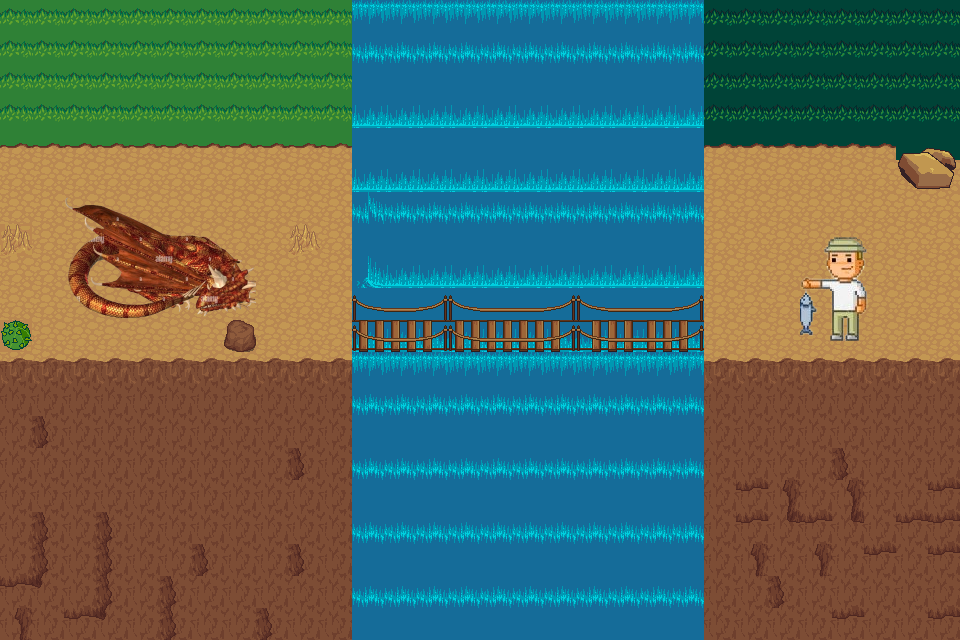
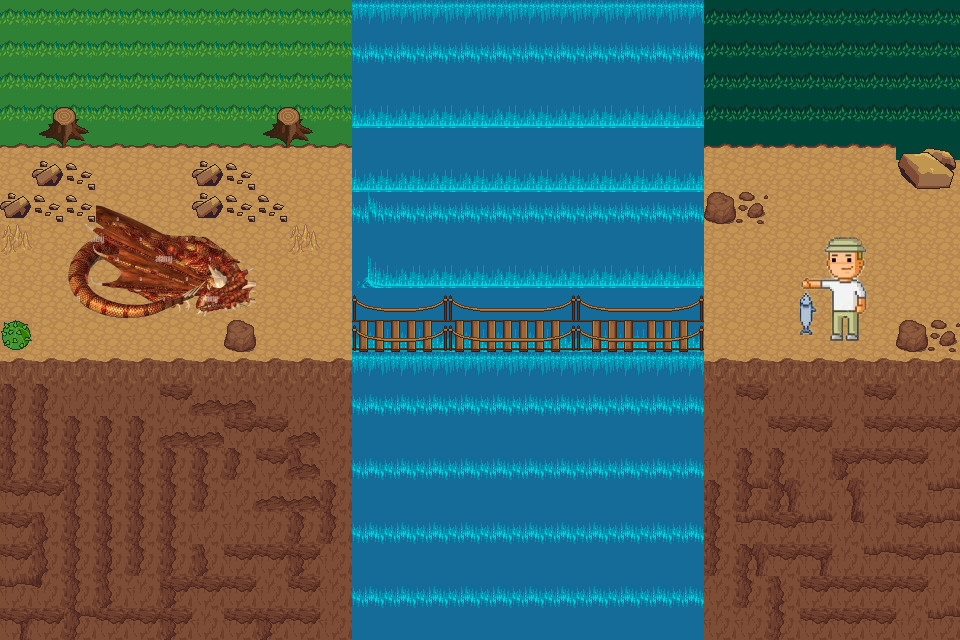
Zone village presque terminé (manque de changer le retour au village depuis le dragon ) + zone Labyrinthe bien avancé

diff --git a/src/jeu/Village.java b/src/jeu/Village.java
@@ -1,16 +1,18 @@
 package jeu;
 
+import java.awt.event.ActionEvent;
+import java.awt.event.ActionListener;
 import java.util.ArrayList;
 import java.util.List;
 
-import javax.swing.JOptionPane;
+import javax.swing.*;
 
 public class Village extends Zone {
-
+	private boolean dragontuée = false;
     public Village(String description) {
         super(description);
         commandes = new ArrayList<String>();
-        
+
        
     }
 
@@ -32,8 +34,10 @@ public class Village extends Zone {
 	@Override
 	public List<String> getCommandesSpecifiques() {
 		commandes.add("PARLER AU VILLAGEOIS");
-		commandes.add("BOIRE AU PUIT");
 		commandes.add("PARLER AU CHEF DU VILLAGE");
+		sorties.add("NORD-N");
+		sorties.add("OUEST-O");
+		sorties.add("EST-E");
 		return commandes;
 	}
 
@@ -43,6 +47,7 @@ public class Village extends Zone {
 		
 		 switch (commande) {
          case "PARLER AU CHEF DU VILLAGE":
+			if (!dragontuée){
              // Afficher l'image et le message à la console
         	 if(commandes.contains("PARLER AU VILLAGEOIS")) {
         		 Main.jeu.afficher("Vous devez d'abord parler au villageois");
@@ -55,10 +60,17 @@ public class Village extends Zone {
         		 		+ "Je te donne pour cela un arc et 1 flèche très puissante qui viendront à bout du dragon mais attention tu n'auras pas le droit de le rater.\n"
         		 		+ "Maintenant va et puisse la chance etre avec toi.");
         		 commandes.add("TUER LE DRAGON");
-        	 }
-             
+				 commandes.remove("PARLER AU CHEF DU VILLAGE");
+        	 }}
+			else{
+				Main.jeu.getGUI().afficheImage("village2.png");
+				Main.jeu.afficher("Merci pêcheur!");
+				commandes.remove("PARLER AU CHEF DU VILLAGE");
+			}
+
              break;
          case "PARLER AU VILLAGEOIS":
+
         	    Main.jeu.getGUI().afficheImage("village3.png");
         	    Main.jeu.afficher("Bonjour pêcheur, que nous vaut ta visite dans notre village \n "
         	                      + "Tu t'es échoué dans notre île avec ton âne et tu voudrais parler à notre chef? \n"
@@ -71,23 +83,60 @@ public class Village extends Zone {
         	        Main.jeu.afficher("Mauvaise réponse");
         	    }
         	    break;
-         /*case "VERS LA FORET":
-         	Main.jeu.getGUI().afficheImage("foret.png");
-         	
-         	sorties.remove("VERS LA FORET");
-         	
-         	break;*/
-         default:
+			 case "TUER LE DRAGON":
+				 lancerMiniJeuPourTuerLeDragon();
+				 commandes.remove("TUER LE DRAGON");
+				 commandes.add("PARLER AU CHEF DU VILLAGE");
+				 break;
+
+			 default:
          	 Main.jeu.afficher("Commande inconnue");
              break;
-         
+
      }
-		 
-		
+
+
 	}
-	
+
 	private String lireReponseGUI() {
 	    return JOptionPane.showInputDialog("Quelle est la capitale de Djibouti?");
 	}
+	private String lireReponseGUI1(){
+		return JOptionPane.showInputDialog("Quel chiffre se cachait dans la zone?");
+	}
+	private void lancerMiniJeuPourTuerLeDragon() {
+		// Afficher l'image du dragon
+		Main.jeu.getGUI().afficheImage("monstre.png");
+		Main.jeu.getGUI().stopperSaisieUtilisateur();
+
+
+		// Afficher le chiffre "3" dans la zone
+		Main.jeu.getGUI().afficher("Trouvez le chiffre caché. Regardez attentivement la zone pendant 15 secondes...\n");
+
+		// Démarrer un Timer pour effectuer une action après 10 secondes
+		Timer timer = new Timer(15000, e -> {
+			// Effacer la zone après 10 secondes
+			Main.jeu.getGUI().effacerImage();
+			Main.jeu.getGUI().activerSaisieUtilisateur();
+			// Demander au joueur de taper le chiffre
+			String reponse = lireReponseGUI1();
+
+			// Vérifier si le chiffre saisi par le joueur est correct
+			if (reponse.equals("3")) {
+				Main.jeu.afficher("Félicitations ! Vous avez trouvé le chiffre correct pour tuer le dragon.");
+				dragontuée = true;
+
+				// Autres actions pour tuer le dragon...
+			} else {
+				Main.jeu.afficher("Désolé, le chiffre que vous avez saisi est incorrect. Le dragon vous attaque ! Vous avez perdu");
+				Main.jeu.terminer();
+				// Autres actions en cas de réponse incorrecte...
+			}
+		});
+		timer.setRepeats(false); // Ne répéter qu'une seule fois
+		timer.start();
+	}
+
+
 }
 

diff --git a/src/jeu/Jeu.java b/src/jeu/Jeu.java
@@ -59,12 +59,13 @@ public class Jeu {
         Plage plage = new Plage("Plage");
         Foret foret = new Foret("Foret");
         Village village = new Village("Village");
+        Zone labyrinthe= new Labyrinthe("Labyrinthe");
         /*
         Zone maison = new Zone("Maison");
         
         Zone grotte = new Zone("Grotte");
         Zone maisonisolee = new Zone("Maisonisolee");
-        Zone labyrinthe= new Zone("Labyrinthe");
+
         Zone monstre = new Zone("Monstre");
         Zone temple = new Zone("Temple");
         Zone sorcierelieu= new Zone("Sorciere");*/
@@ -76,12 +77,14 @@ public class Jeu {
         foret.ajouterImage("foret.png");
         village.ajouterImage("village.png");
         village.ajouterImage("village2.png");
+        labyrinthe.ajouterImage("labyrinthe.png");
+        labyrinthe.ajouterImage("labyrinthe2.png");
         /*
         maison.ajouterImage("maison.png");
       
         grotte.ajouterImage("grotte.png");
         maisonisolee.ajouterImage("maisonisolee.png");
-        labyrinthe.ajouterImage("labyrinthe.png");
+
         monstre.ajouterImage("monstre.png");
         temple.ajouterImage("temple.png");
         sorcierelieu.ajouterImage("sorcierelieu.png");*/
@@ -99,12 +102,13 @@ public class Jeu {
         zonesDisponibles.add(plage);
         zonesDisponibles.add(foret);
         zonesDisponibles.add(village);
+        zonesDisponibles.add(labyrinthe);
         /*
         zonesDisponibles.add(maison);
        
         zonesDisponibles.add(grotte);
         zonesDisponibles.add(maisonisolee);
-        zonesDisponibles.add(labyrinthe);
+
         zonesDisponibles.add(monstre); 
         zonesDisponibles.add(temple);
         zonesDisponibles.add(sorcierelieu);*/
@@ -192,6 +196,10 @@ public class Jeu {
     	List<String> deplacements = zoneCourante.getCommandesDeplacements();
         gui.afficher("Commandes Ddeplacements : " + String.join(", ", deplacements));
     }
+    private void afficherAutresCommandes() {
+        List<String> deplacements = zoneCourante.getAutrescommandes();
+        gui.afficher("Autres commandes : " + String.join(", ", deplacements));
+    }
 
           
 
@@ -252,6 +260,7 @@ public class Jeu {
     	        zoneCourante.executerCommandeSpecifique(commandeLue.toUpperCase());
     	        if(zoneCourante.getCommandesRestantes().size()==0) {
     	        	afficherCommandesDéplacements();
+                    afficherAutresCommandes();
     	        	}
     	        else {
     	        	 afficherCommandesRestantes();
@@ -264,10 +273,23 @@ public class Jeu {
     	    }*/
     	    switch (commandeLue) {
     	    	case "VERS LA FORET":
-    	    	case "NORD":
-    	    	case "EST":
-    	    		choisirNouvelleZone();
-    	    		break;
+                case "NORD":
+                case "N":
+                case "EST":
+                case "E":
+                case "SUD":
+                case "S":
+                case "OUEST":
+                case "O":
+                    choisirNouvelleZone();
+                    break;
+                case "INVENTAIRE":
+                case "I":
+                    afficherInventaire();
+                    break;
+                /*case "AIDE":
+                    afficherAide();
+                    break;*/
     	    }
     	    
     	    
@@ -286,9 +308,7 @@ public class Jeu {
             choisirNouvelleZone();
             break;
         case "?":
-        case "AIDE":
-                afficherAide();
-                break;
+
         case "R":
         case "RAMASSER":
                 ramasserObjet();
@@ -316,8 +336,12 @@ public class Jeu {
         gui.afficher();
     }
 
-    private void terminer() {
+    void terminer() {
         gui.afficher("Au revoir...");
         gui.enable(false);
+    }
+    void terminerJeu() {
+        // Arrête l'exécution du jeu
+        System.exit(0);
     }
 }

diff --git a/src/jeu/Labyrinthe.java b/src/jeu/Labyrinthe.java
@@ -1,34 +1,59 @@
 package jeu;
 
+import java.util.ArrayList;
 import java.util.List;
 
 public class Labyrinthe extends Zone {
-
-    public Labyrinthe() {
-        super("Labyrinthe");
-        ajouterImage("labyrinthe.png");
+    private Objet coffre;
+    private Objet cordes;
+    private static int chances = 3;
+    public Labyrinthe(String description) {
+        super(description + "\n" + "Vous etes maintenant dans un labyrinthe. Pour y sortir c'est simple \n il" +
+                "vous faudra taper la bonne séquence de mouvements. Les mouvements possibles sont\n" +
+                "D pour tourner à Droite et G pour tourner à Gauche (vous ne pouvez pas faire marche arrière)\n" +
+                "Si sur une ligne droite vous avez plusieurs possibilités de tourner à droite ou à gauche vous devez spécifier \n" +
+                "quelle droite ou quelle gauche en mettant un chiffre devant. Exemple : Vous avez 2 possibilités d'aller à gauche \n" +
+                "sur une ligne droite si vous voulez passer par la 1ere gauche vous devez taper 1G, la 2e 2G. Vous devez taper la \n" +
+                "séquence entière sur une seule ligne sans espace. Vous avez 3 essais. Bon courage " +
+                "");
+        commandes = new ArrayList<String>();
+        this.coffre = new Objet("coffre");
+        this.cordes = new Objet("cordes");
+        super.getObjets().add(coffre);
        
     }
 
     @Override
     public List<String> getCommandesSpecifiques() {
-        return null;
+        commandes.add("Aucune commandes disponibles");
+        return commandes;
     }
 
     @Override
     public void executerCommandeSpecifique(String commande) {
 
+            switch (commande.toUpperCase()) {
+                case "D2G2D1GDGGDD":
+                    Main.jeu.getGUI().afficheImage("labyrinthe2.png");
+                    Main.jeu.afficher("Félicitations vous avez réussi à sortir du labyrinthe. Vous trouvez à la sortie " +
+                            "un coffre. Vous trouvez dans le coffre des cordes.");
+                    Main.jeu.getJoueur().ramasserObjet(cordes);
+                break;
+                default:
+                    Main.jeu.afficher("Vous avez tapez la mauvaise séquence ");
+                    chances = chances -1;
+                    if(chances==0){
+                        Main.jeu.afficher("Il ne vous reste plus d'essais.Vous avez perdu");
+                    }
+                    else{
+                        Main.jeu.afficher("Il vous reste " + chances + " essais" );
+                    }
+        }
     }
 
     @Override
     public void traiterCommandeZone(String commande) {
-        switch (commande.toUpperCase()) {
-            case "":
-                ;
-                break;
-            default:
-                super.traiterCommandeZone(commande);
-        }
+
     }
 
     private void faireqlqchose() {

diff --git a/src/jeu/Zone.java b/src/jeu/Zone.java
@@ -11,6 +11,8 @@ public abstract class Zone {
     private int situationActuelle;
     private List<Objet> objets;
     protected List<String> commandes;
+
+    private List<String> autrescommandes;
     
     
 
@@ -20,7 +22,8 @@ public abstract class Zone {
         this.description = description;
         images = new ArrayList<>();
         sorties = new ArrayList<>();
-        situationActuelle = 0; 
+        situationActuelle = 0;
+        autrescommandes = new ArrayList<>();
  
         objets = new ArrayList<>();
         ;
@@ -60,7 +63,11 @@ public abstract class Zone {
     }
     public abstract void executerCommandeSpecifique(String commande);
     
+    public List<String> getAutrescommandes(){
+        autrescommandes.add("INVENTAIRE-I");
 
+        return autrescommandes;
+    }
 
 
    public String toString() {

diff --git a/src/jeu/GUI.java b/src/jeu/GUI.java
@@ -112,4 +112,18 @@ public class GUI implements ActionListener
         // Par exemple, si vous avez un JTextArea nommé consoleTextArea :
         texte.setText("");
     }
+    public void effacerImage() {
+        URL imageURL = this.getClass().getClassLoader().getResource("imagesJeu/fondnoir.jpg");
+        if (imageURL != null) {
+            image.setIcon(new ImageIcon(imageURL));
+        } else {
+            System.out.println("L'image de fond noir n'a pas été trouvée.");
+        }
+    }
+    public void stopperSaisieUtilisateur() {
+        entree.setEditable(false); // Désactive la saisie utilisateur
+    }
+    public void activerSaisieUtilisateur() {
+        entree.setEditable(true); // Désactive la saisie utilisateur
+    }
 }

diff --git a/src/jeu/Foret.java b/src/jeu/Foret.java
@@ -29,9 +29,8 @@ public class Foret extends Zone {
 
 	@Override
 	public List<String> getCommandesSpecifiques() {
-		commandes.add("NORD");
-		commandes.add("EST");
-		commandes.add("OUEST");
+		commandes.add("NORD-N");
+
 		
 		return commandes;
 	}
